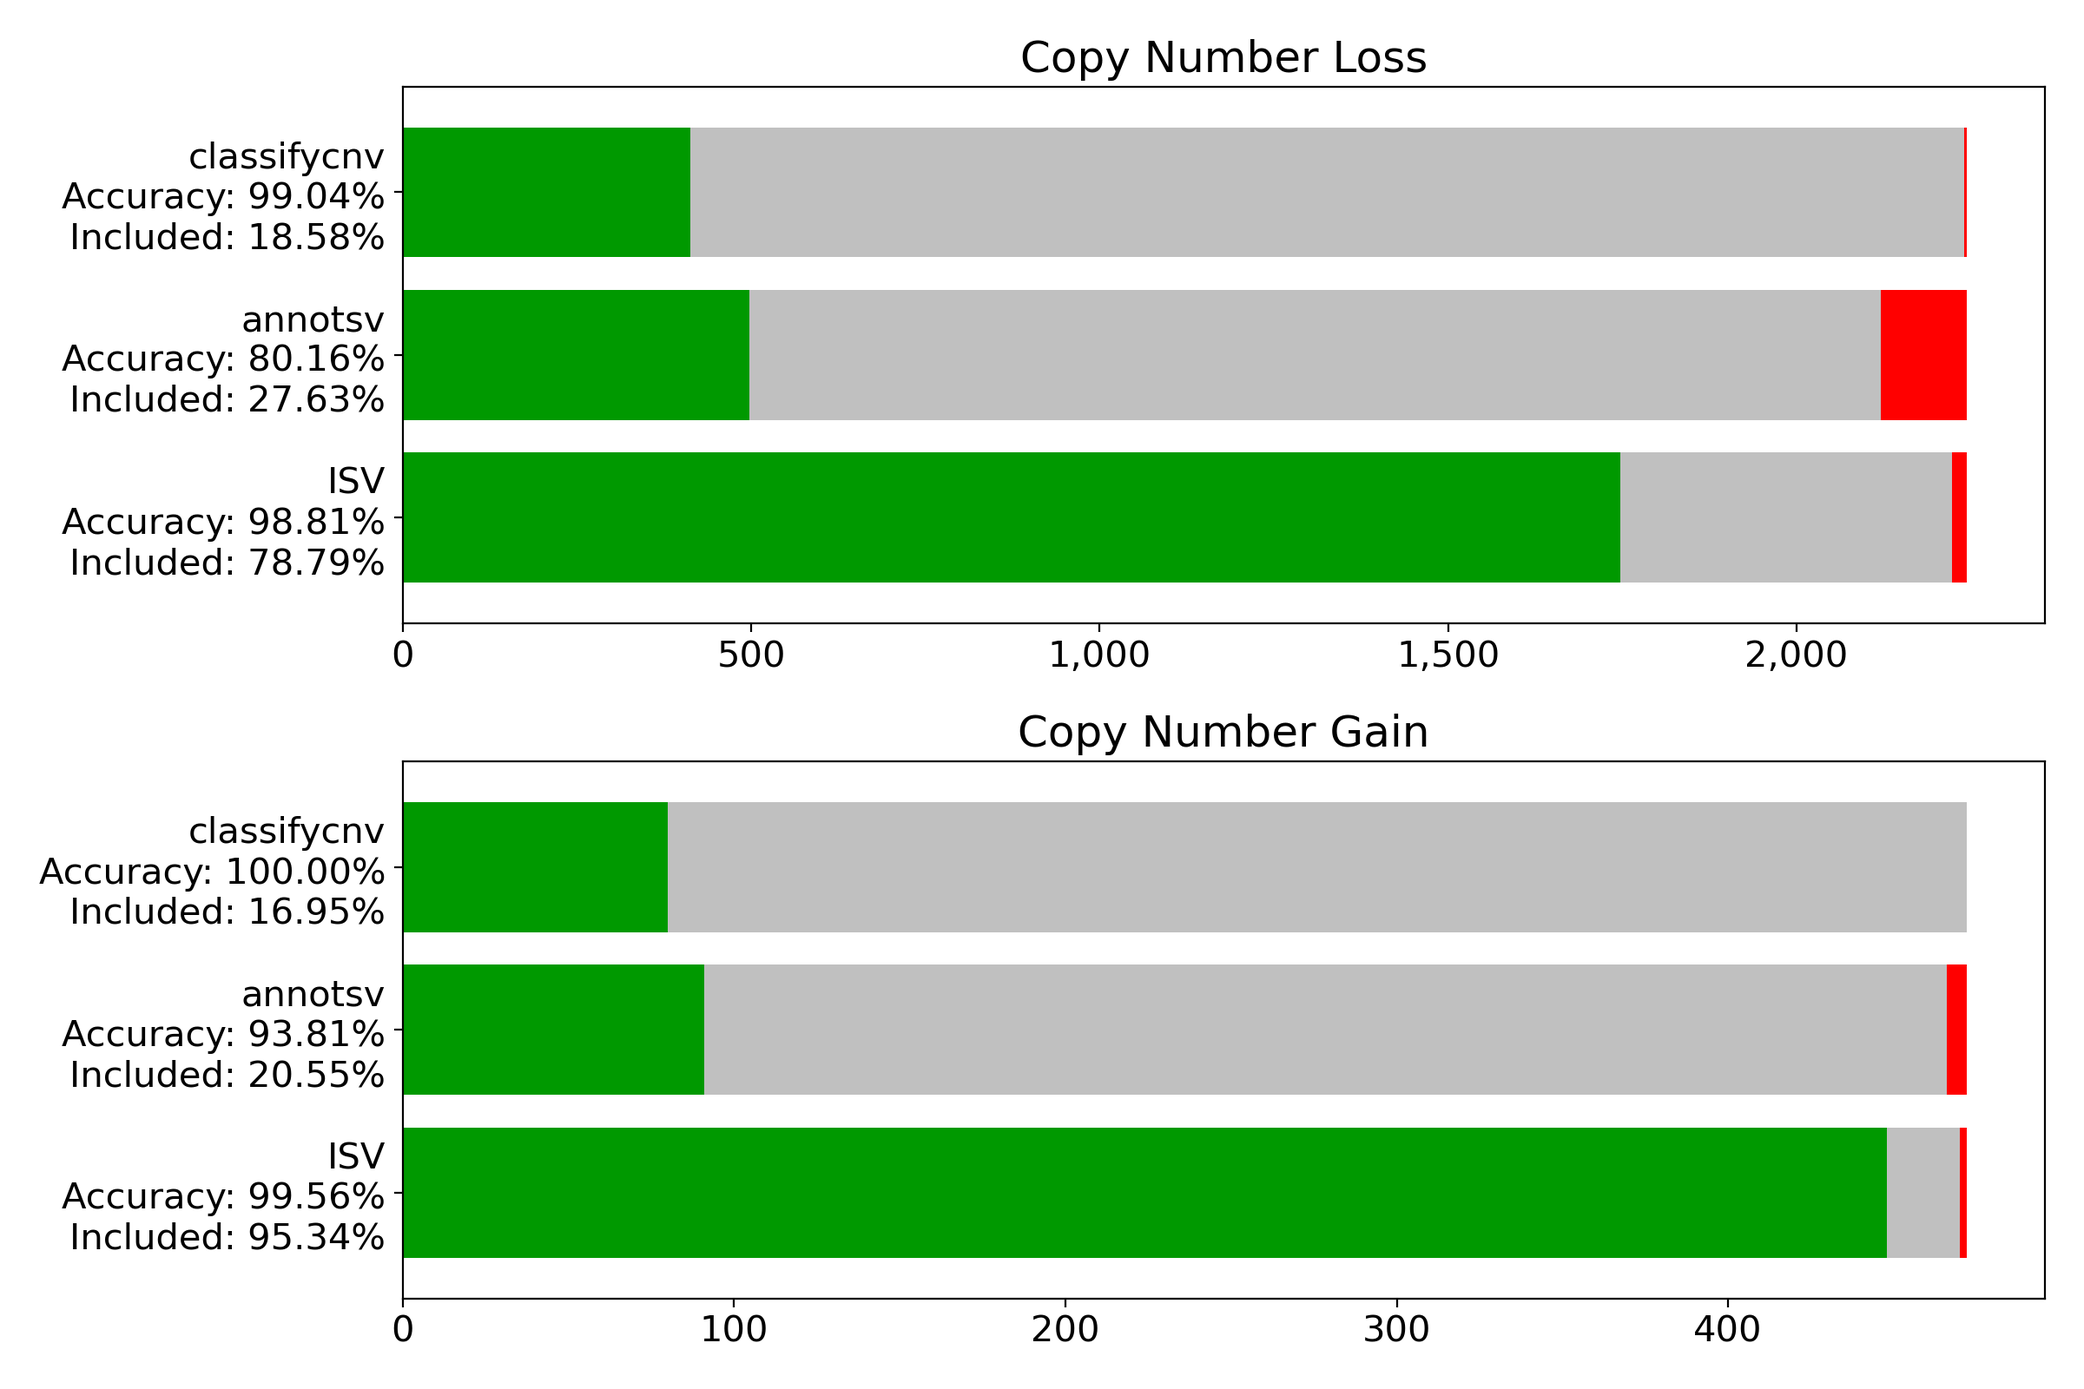
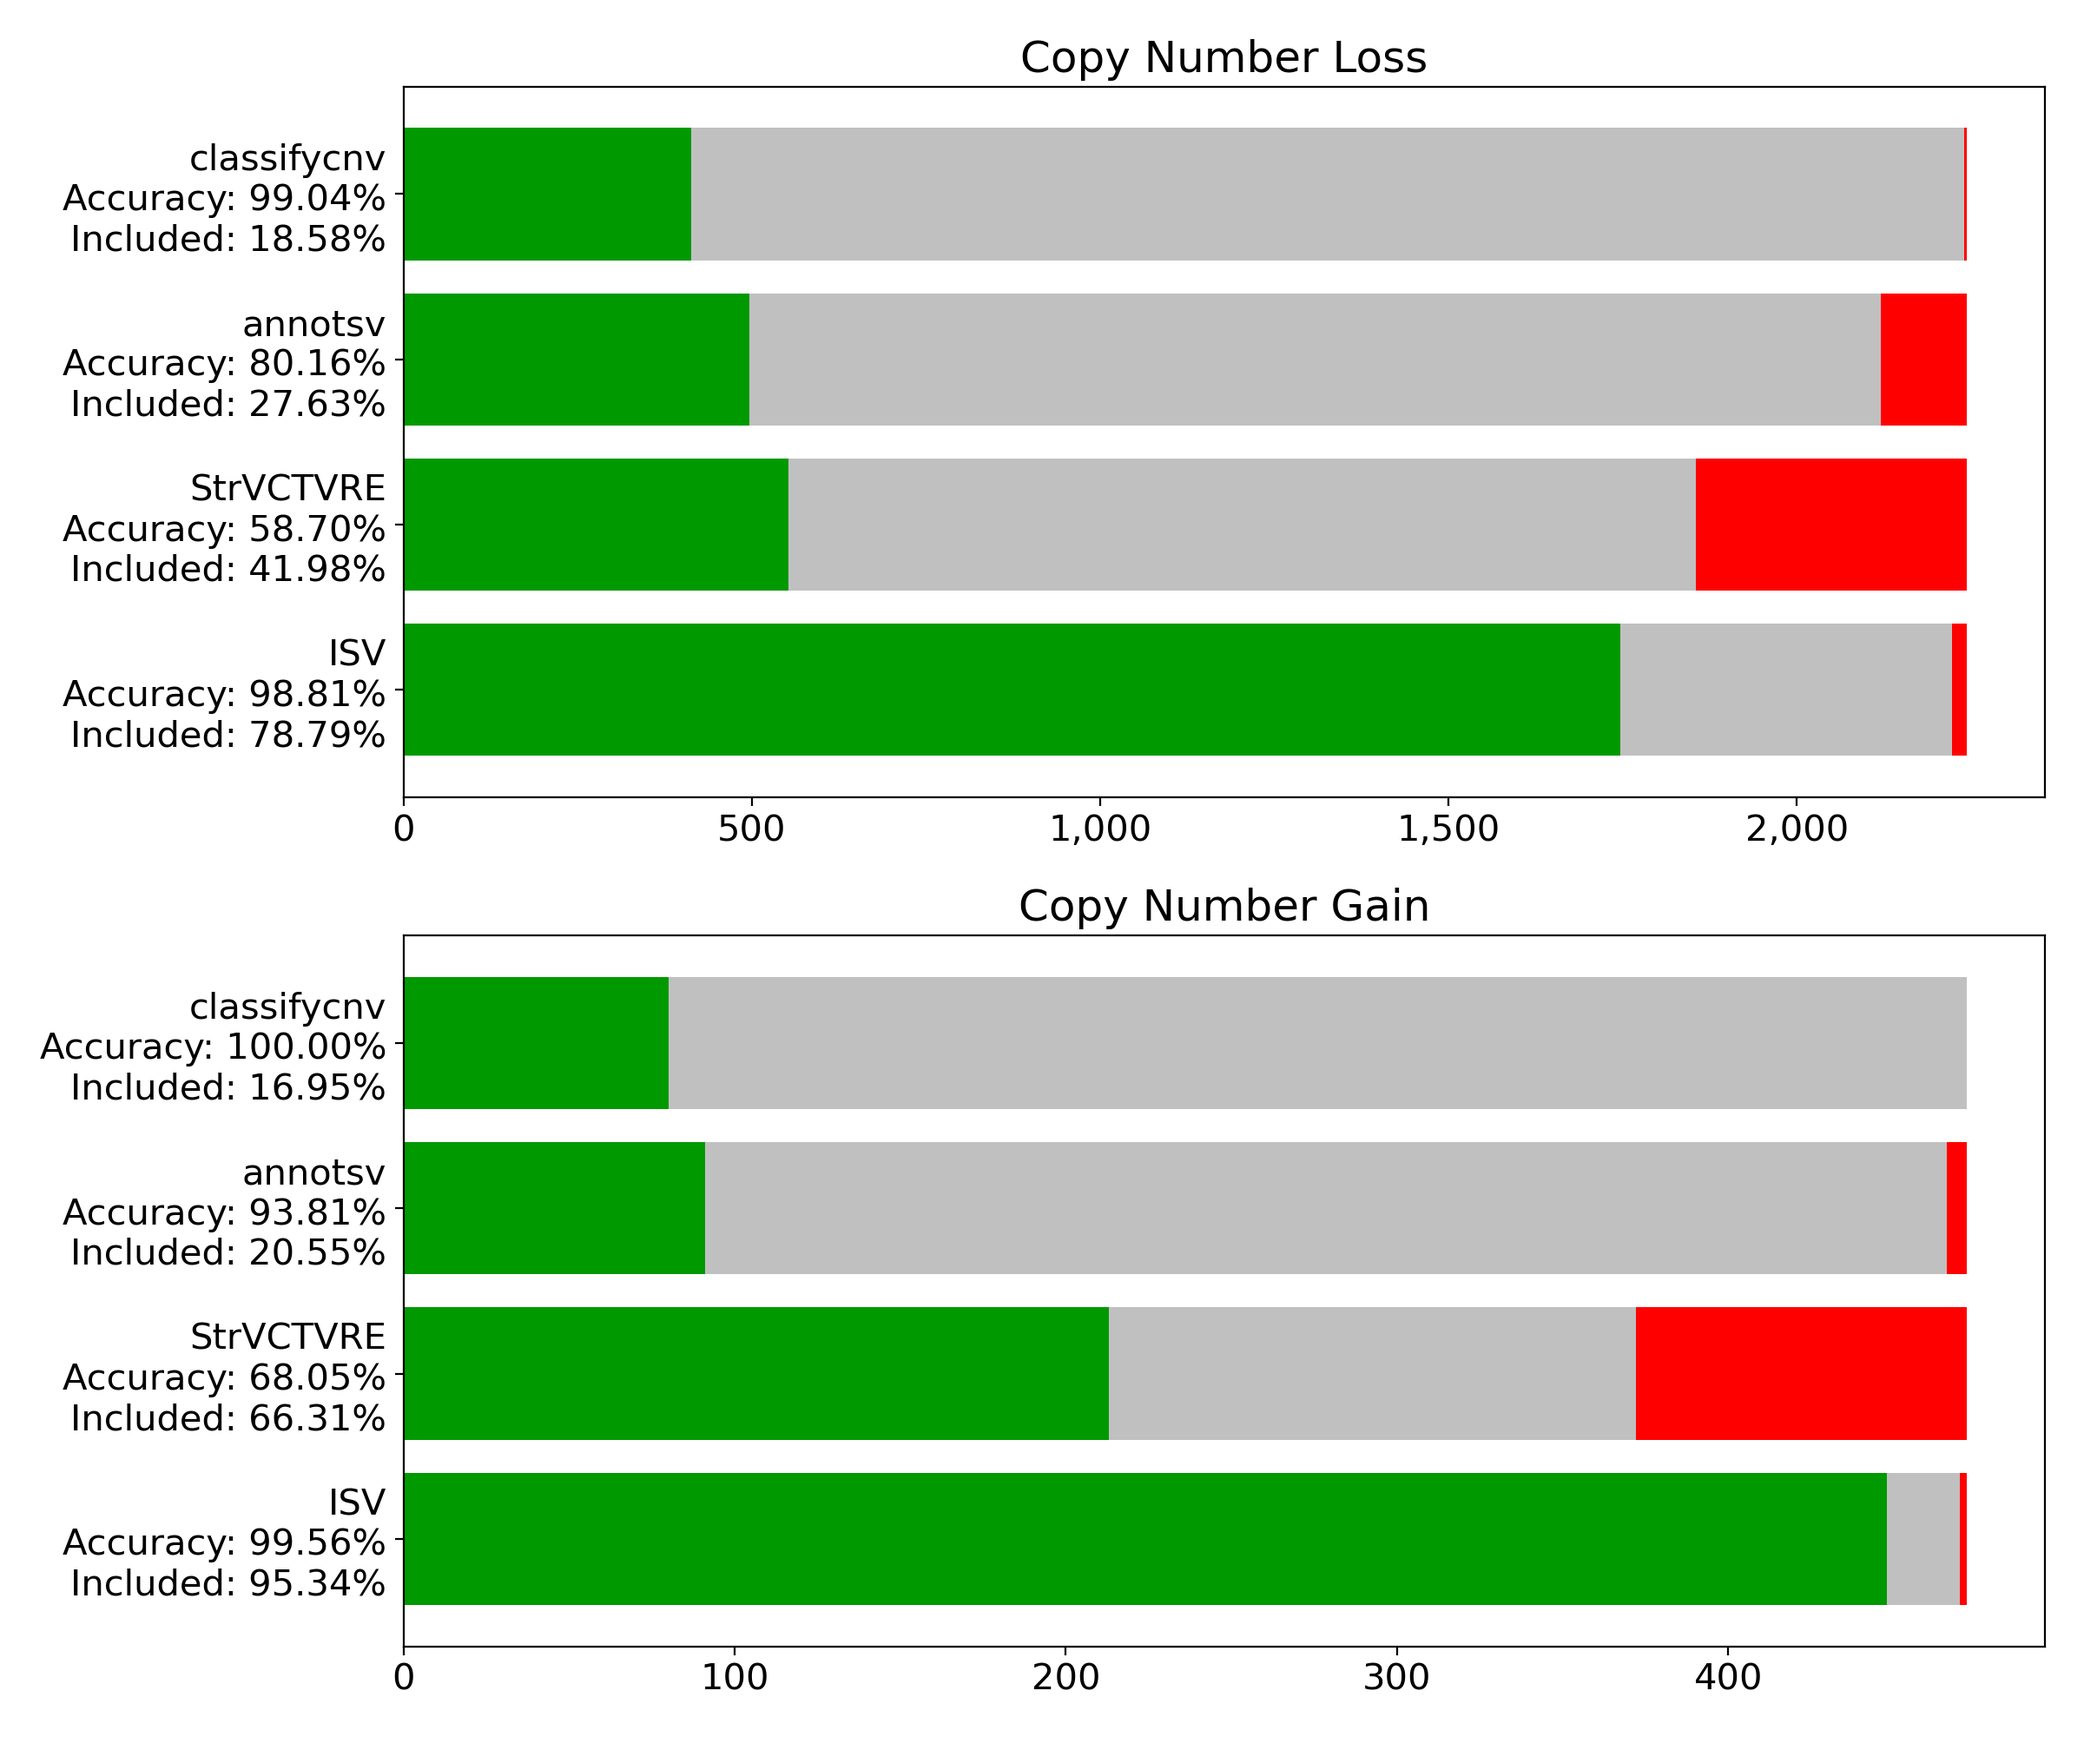
add strvctvre to model comparison

Changed region(s): [[0.0, 0.0625, 0.9688, 0.9688], [0.1875, 0.0312, 0.9688, 0.0938]]

diff --git a/scripts/plots/results_isv_acmg_comparison.py b/scripts/plots/results_isv_acmg_comparison.py
@@ -27,9 +27,9 @@ rcParams.update({'font.size': 15})
 
 # %%
 dataset = snakemake.wildcards.dataset    
-# dataset = 'validation'
+# dataset = 'test'
 
-fig, ax = plt.subplots(2, 1, figsize=(12, 8))
+fig, ax = plt.subplots(2, 1, figsize=(12, 10))
 
 for i, cnv_type in enumerate(['loss', 'gain']):
     results = {'label': [], 'correct': [], 'uncertain': [], 'incorrect': []}
@@ -42,6 +42,22 @@ for i, cnv_type in enumerate(['loss', 'gain']):
     
     # MarCNV
     # results = bar_update_results_acmg(results, f'data/marcnv/MarCNV_{dataset}_{cnv_type}.tsv', likely_is_uncertain=True)
+    
+    # STRVCTVRE - ADD THRESHOLD ??? 
+    strvctvre = pd.read_csv(f"results/strvctvre_{dataset}_{cnv_type}.tsv", sep='\t', header=None).iloc[:, 4].values    
+    y = pd.read_csv(f"data/{dataset}_{cnv_type}.tsv.gz", compression='gzip', sep='\t', usecols=['clinsig']).values
+    
+    strv = pd.DataFrame({'strv': strvctvre.ravel(), 'clinsig': y.ravel()})
+    strv["strv_bin"] = [((float(cnv.strv) > 0.5) * 1) == cnv.clinsig if cnv.strv != "not_exonic" else cnv.strv for _, cnv in strv.iterrows()]
+    
+    results["uncertain"].append(sum(strv.strv == "not_exonic"))
+    
+    c = sum(strv.strv_bin == True)
+    ic = sum(strv.strv_bin == False)
+    results["correct"].append(c)
+    results["incorrect"].append(ic)
+    results["label"].append("StrVCTVRE\nAccuracy: {:.2f}%\nIncluded: {:.2f}%"\
+                            .format(100 * c / (c + ic), 100 * (c + ic) / len(y)))
     
     # ISV
     results = bar_update_results(results, f'results/ISV_{cnv_type}.json', f'data/{dataset}_{cnv_type}.tsv.gz',
